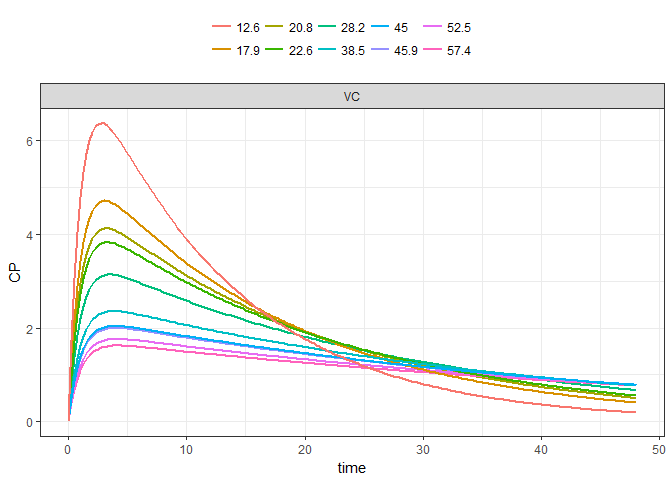
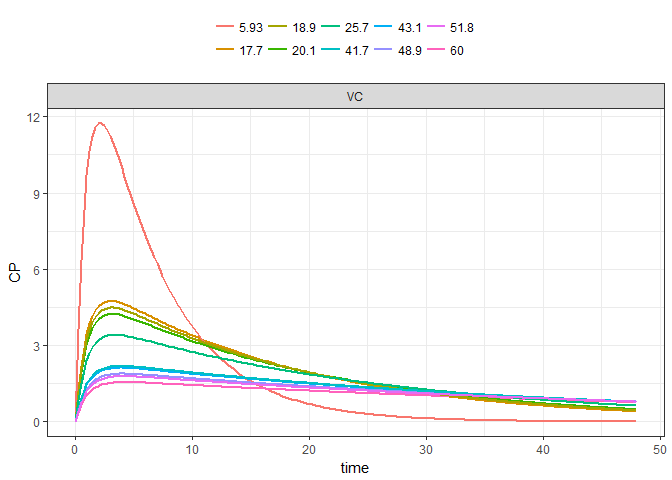
Update README

diff --git a/README.md b/README.md
@@ -26,11 +26,6 @@ Examples
 library(ggplot2)
 library(dplyr)
 library(mrgsolve)
-```
-
-    . Warning: package 'mrgsolve' was built under R version 3.4.3
-
-``` r
 library(mrgsolvetk)
 
 theme_set(theme_bw())
@@ -69,16 +64,16 @@ out
     . # A tibble: 1,930 x 8
     .       ID  time    CP    CL    VC   KA1 name         value
     .    <dbl> <dbl> <dbl> <dbl> <dbl> <dbl> <chr>        <dbl>
-    .  1    1. 0.    0.     1.81  46.6  1.12 multivariate    1.
-    .  2    1. 0.250 0.520  1.81  46.6  1.12 multivariate    1.
-    .  3    1. 0.500 0.908  1.81  46.6  1.12 multivariate    1.
-    .  4    1. 0.750 1.20   1.81  46.6  1.12 multivariate    1.
-    .  5    1. 1.00  1.41   1.81  46.6  1.12 multivariate    1.
-    .  6    1. 1.25  1.57   1.81  46.6  1.12 multivariate    1.
-    .  7    1. 1.50  1.68   1.81  46.6  1.12 multivariate    1.
-    .  8    1. 1.75  1.76   1.81  46.6  1.12 multivariate    1.
-    .  9    1. 2.00  1.82   1.81  46.6  1.12 multivariate    1.
-    . 10    1. 2.25  1.86   1.81  46.6  1.12 multivariate    1.
+    .  1    1. 0.     0.    2.26  10.0 0.548 multivariate    1.
+    .  2    1. 0.250  1.24  2.26  10.0 0.548 multivariate    1.
+    .  3    1. 0.500  2.26  2.26  10.0 0.548 multivariate    1.
+    .  4    1. 0.750  3.08  2.26  10.0 0.548 multivariate    1.
+    .  5    1. 1.00   3.74  2.26  10.0 0.548 multivariate    1.
+    .  6    1. 1.25   4.25  2.26  10.0 0.548 multivariate    1.
+    .  7    1. 1.50   4.64  2.26  10.0 0.548 multivariate    1.
+    .  8    1. 1.75   4.93  2.26  10.0 0.548 multivariate    1.
+    .  9    1. 2.00   5.14  2.26  10.0 0.548 multivariate    1.
+    . 10    1. 2.25   5.27  2.26  10.0 0.548 multivariate    1.
     . # ... with 1,920 more rows
 
 ``` r
@@ -198,16 +193,16 @@ out
     . # A tibble: 19,300 x 7
     .       ID  time    CP    CL    VC name         value
     .    <dbl> <dbl> <dbl> <dbl> <dbl> <chr>        <dbl>
-    .  1    1. 0.    0.     1.60  68.0 multivariate    1.
-    .  2    1. 0.250 0.324  1.60  68.0 multivariate    1.
-    .  3    1. 0.500 0.575  1.60  68.0 multivariate    1.
-    .  4    1. 0.750 0.768  1.60  68.0 multivariate    1.
-    .  5    1. 1.00  0.916  1.60  68.0 multivariate    1.
-    .  6    1. 1.25  1.03   1.60  68.0 multivariate    1.
-    .  7    1. 1.50  1.12   1.60  68.0 multivariate    1.
-    .  8    1. 1.75  1.18   1.60  68.0 multivariate    1.
-    .  9    1. 2.00  1.23   1.60  68.0 multivariate    1.
-    . 10    1. 2.25  1.27   1.60  68.0 multivariate    1.
+    .  1    1. 0.     0.    2.89  15.8 multivariate    1.
+    .  2    1. 0.250  1.37  2.89  15.8 multivariate    1.
+    .  3    1. 0.500  2.38  2.89  15.8 multivariate    1.
+    .  4    1. 0.750  3.10  2.89  15.8 multivariate    1.
+    .  5    1. 1.00   3.61  2.89  15.8 multivariate    1.
+    .  6    1. 1.25   3.95  2.89  15.8 multivariate    1.
+    .  7    1. 1.50   4.17  2.89  15.8 multivariate    1.
+    .  8    1. 1.75   4.29  2.89  15.8 multivariate    1.
+    .  9    1. 2.00   4.33  2.89  15.8 multivariate    1.
+    . 10    1. 2.25   4.32  2.89  15.8 multivariate    1.
     . # ... with 19,290 more rows
 
 ``` r
@@ -217,16 +212,16 @@ distinct(out,ID,CL,VC)
     . # A tibble: 100 x 3
     .       ID    CL    VC
     .    <dbl> <dbl> <dbl>
-    .  1    1.  1.60  68.0
-    .  2    2.  1.70  70.3
-    .  3    3.  3.29  55.0
-    .  4    4.  1.65  52.5
-    .  5    5.  2.39  57.4
-    .  6    6.  1.01  40.0
-    .  7    7.  1.07  77.8
-    .  8    8.  3.36 100. 
-    .  9    9.  1.09  68.4
-    . 10   10.  3.40  61.5
+    .  1    1.  2.89  15.8
+    .  2    2.  2.54  65.0
+    .  3    3.  2.12  22.2
+    .  4    4.  1.87  63.1
+    .  5    5.  3.28  59.3
+    .  6    6.  3.18  32.4
+    .  7    7.  2.85  78.8
+    .  8    8.  2.17  34.3
+    .  9    9.  2.98  23.4
+    . 10   10.  1.50  62.2
     . # ... with 90 more rows
 
 Maximum Likelihood Parameter Optimization
@@ -270,10 +265,6 @@ ggplot(data,aes(x=time,y=dv,color=as.factor(ID)))+
   facet_wrap("cmt")+
   guides(color=F)
 ```
-
-    . Warning: Removed 5 rows containing missing values (geom_point).
-
-    . Warning: Removed 5 rows containing missing values (geom_path).
 
 ![](inst/maintenance/img/README-unnamed-chunk-16-1.png)
 
@@ -335,8 +326,6 @@ ggplot(out,aes(x=time,y=PK,color=as.factor(ID)))+
   geom_point(data=filter(data,cmt==1),aes(y=dv))+
   guides(color=F)
 ```
-
-    . Warning: Removed 5 rows containing missing values (geom_point).
 
 ![](inst/maintenance/img/README-unnamed-chunk-18-1.png)
 
@@ -610,8 +599,6 @@ ggplot(out_fit,aes(x=time,y=PK,color=as.factor(ID)))+
   geom_point(data=filter(data,cmt==1),aes(y=dv))+
   guides(color=F)
 ```
-
-    . Warning: Removed 5 rows containing missing values (geom_point).
 
 ![](inst/maintenance/img/README-unnamed-chunk-21-1.png)
 
